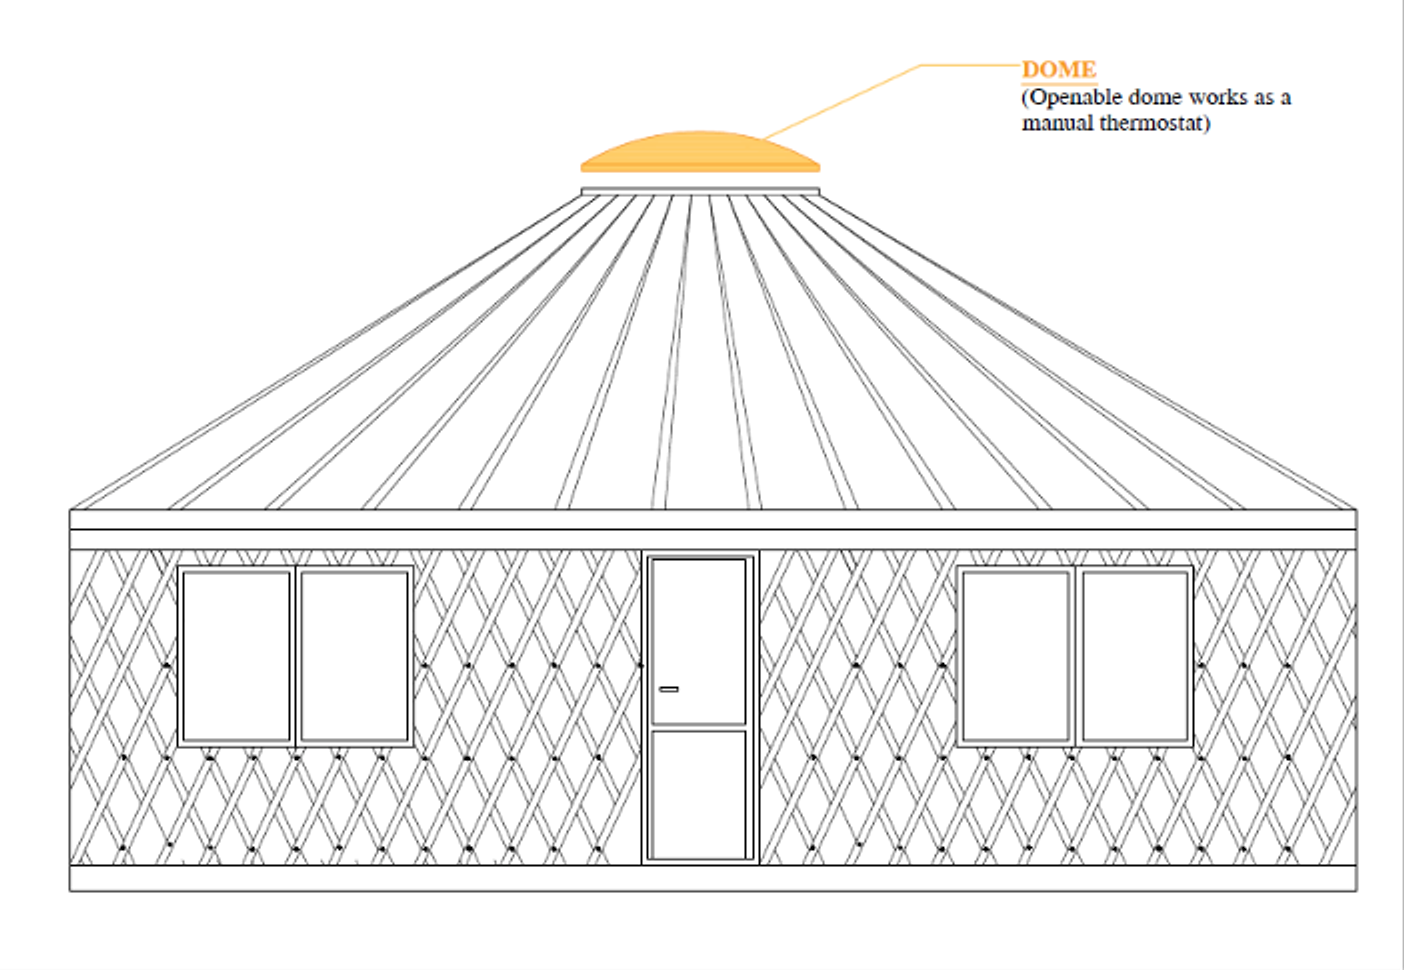
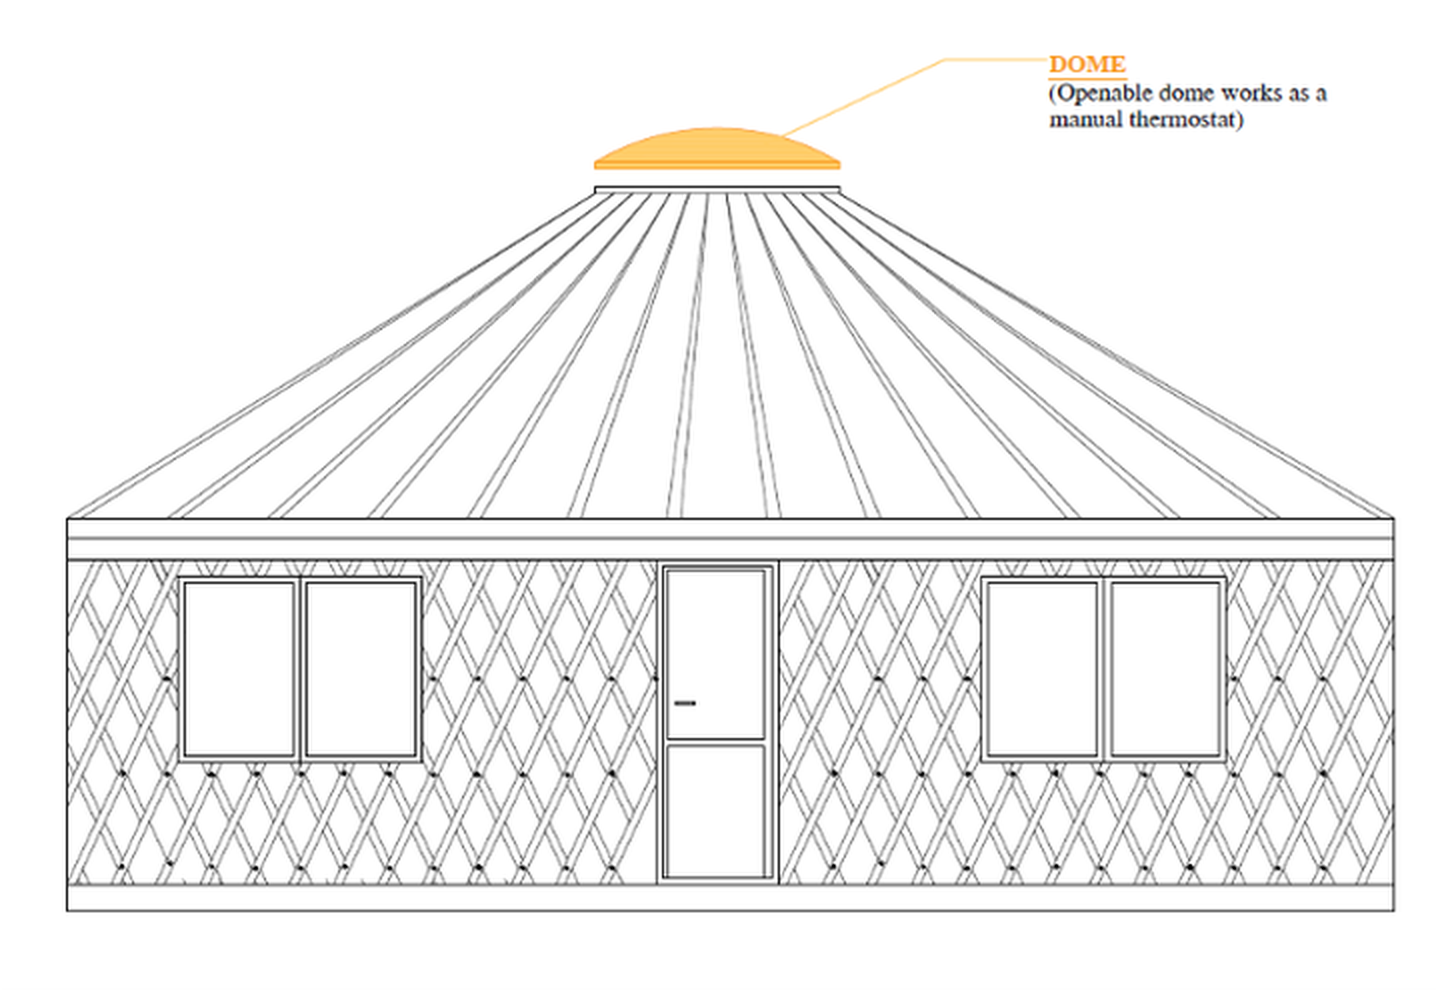
Use the client's revised structure drawings
Swap in the new elevations, aligned to one frame so the cross-fade
doesn't jump, and run the slides in their order from dome to door with
names and captions matching the drawings.

Changed region(s): [[0.0306, 0.0928, 0.9801, 0.9278], [0.6125, 0.0309, 0.9188, 0.1546], [0.8575, 0.433, 0.8882, 0.4639]]

diff --git a/components/home/StructureExplorer.tsx b/components/home/StructureExplorer.tsx
@@ -13,21 +13,20 @@ import { cn } from "@/lib/cn";
  */
 const slides = [
   {
-    id: "door",
-    name: "Door",
-    body: "Provides physical access, security and privacy.",
-  },
-  {
     id: "dome",
     name: "Dome",
     body: "An openable dome that works as a manual thermostat.",
   },
   {
     id: "centre-ring",
-    name: "Centre ring",
+    name: "Center ring",
     body: "Acts as a keystone, holding the rafters up.",
   },
-  { id: "rafter", name: "Rafter", body: "Holds the structure in place." },
+  {
+    id: "rafter",
+    name: "Rafter",
+    body: "The frame holding the structure in place.",
+  },
   {
     id: "tension-cable",
     name: "Tension cable",
@@ -41,7 +40,12 @@ const slides = [
   {
     id: "windows",
     name: "Windows",
-    body: "Translucent openings that let in natural light and fresh air.",
+    body: "Translucent openings that admit natural light and fresh air.",
+  },
+  {
+    id: "door",
+    name: "Door",
+    body: "Provides physical access, security and privacy.",
   },
 ] as const;
 
@@ -49,7 +53,7 @@ const slides = [
  * Indexed to `anatomy` (crown, roof, lattice, tension, envelope): the slide
  * each card opens. The envelope has no drawing of its own, so it stays text.
  */
-const cardSlide: (number | null)[] = [2, 3, 5, 4, null];
+const cardSlide: (number | null)[] = [1, 2, 4, 3, null];
 
 const CYCLE_MS = 3500;
 
@@ -134,7 +138,7 @@ export function StructureExplorer({
               {/* White drawings multiplied onto the cream so they sit in the
                   section rather than on a card. The box carries the section's
                   own surface because Reveal isolates the blend from it. */}
-              <div className="relative isolate aspect-[700/484] w-full bg-surface">
+              <div className="relative isolate aspect-[718/496] w-full bg-surface">
                 {slides.map((s, i) => (
                   // eslint-disable-next-line @next/next/no-img-element
                   <img
@@ -146,8 +150,8 @@ export function StructureExplorer({
                         : ""
                     }
                     aria-hidden={i !== index}
-                    width={700}
-                    height={484}
+                    width={1436}
+                    height={992}
                     loading={i === 0 ? "eager" : "lazy"}
                     decoding="async"
                     className={cn(
